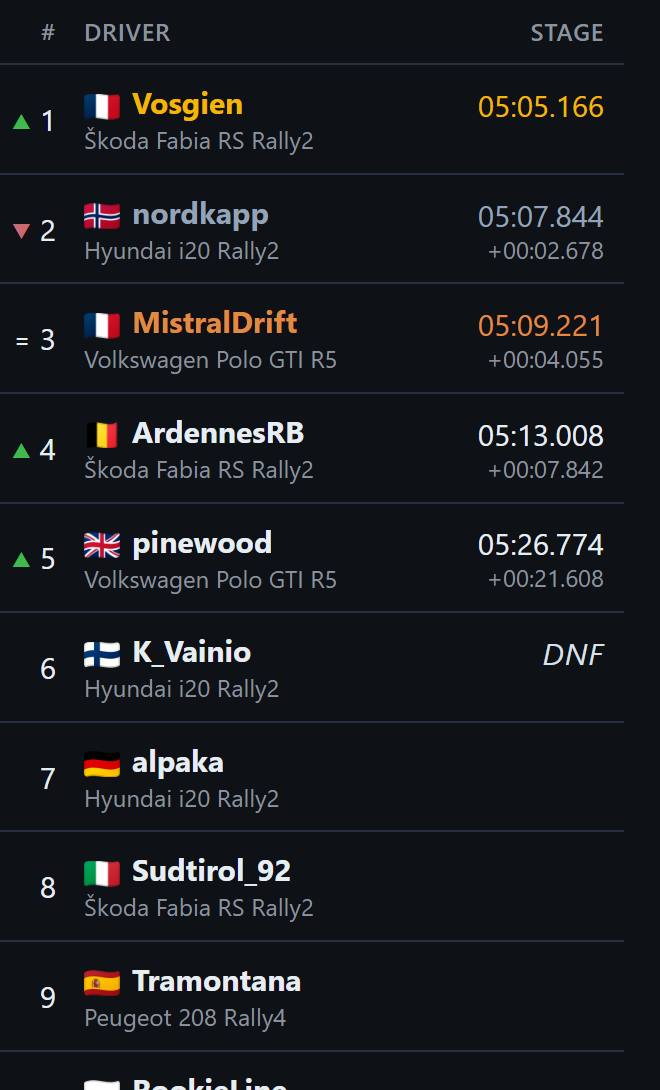
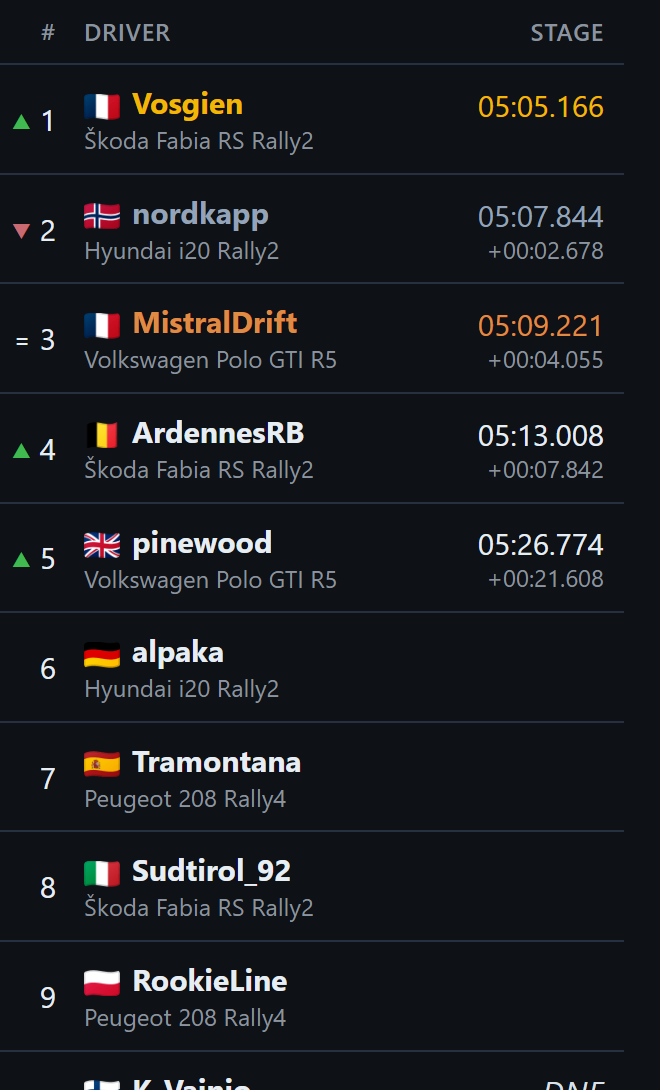
Rank the live sector board by each car's furthest split, name cars in any casing
While a stage was running, the board sorted on the latest split column only.
A car not yet at that split point fell back to the overall standings, so a
driver who had only passed Sector 1 was placed by their rally total instead of
their Sector 1 time: the overall leader at 31 s showed above a car at 28 s.

Each car now ranks at the furthest split point it has reached: cars at the
latest one first, by their time there, then the cars one split behind by their
time at that split, and so on. Cars with no time yet keep the overall order.
A retired car goes below every car still running; before, a retirement with a
time at the latest split stayed ranked among the running cars, at the top if
it was the fastest there.

The CarId is an FName registered on each player's client, so one car can
reach the host as "HyundaiI20NRally2" in one session and "Hyundaii20NRally2"
in another. The catalog matched it with its exact casing, and the second
spelling showed as the raw id instead of "Hyundai i20 Rally2". Car names are
now looked up without case, like nationality tokens. The raw CarId the board
publishes is unchanged.

The README's live view and classification overlay are reshot in the new order.
tools/test-classification.js, plain Node run by hand, lifts computeView out of
the page and checks its classification rules on a small board: finisher, DNF and
DNS statuses under DNF - No Rejoin, the tie-break on stages completed before the
[…]

diff --git a/tools/test-classification.js b/tools/test-classification.js
@@ -1,0 +1,92 @@
+// Lightweight regression checks for the browser-side classification rules.
+// Run with: node tools/test-classification.js
+const assert = require("assert");
+const fs = require("fs");
+const path = require("path");
+
+const page = fs.readFileSync(path.join(__dirname, "..", "src", "Web", "index.html"), "utf8");
+const start = page.indexOf("function computeView(");
+const end = page.indexOf("// the view actually rendered", start);
+assert(start >= 0 && end > start, "computeView source not found");
+const computeView = Function(page.slice(start, end) + "\nreturn computeView;")();
+
+const stages = [1, 2, 3, 4].map(n => ({ id: `run${n}`, name: `SS${n}` }));
+const finished = t => ({ t, f: true, s: 4 });
+const retired = progress => ({ t: progress, f: false, s: 2, r: true });
+const row = (driver, values) => ({
+  driver,
+  retired: false,
+  rawCells: values.map(value => value == null ? null
+    : value.kind === "dnf" ? retired(value.progress) : finished(value)),
+  cars: values.map(value => value == null ? null : "TestCar")
+});
+const dnf = progress => ({ kind: "dnf", progress });
+
+const view = {
+  allStages: stages,
+  hasRaceState: true,
+  rows: [
+    row("Fast finisher", [90, 100, 110, 120]),
+    row("Slow finisher", [100, 110, 120, 130]),
+    row("Alpha tied DNF", [80, 90, dnf(999), 70]),
+    row("Echo tied DNF", [80, 90, dnf(333), null]),
+    row("Later DNF", [85, 90, dnf(222), 60]),
+    row("One-stage DNF", [75, dnf(111), 50, 50]),
+    row("Missed-stage DNF", [80, null, 70, 60]),
+    row("Zero-stage DNF", [dnf(null), null, null, null]),
+    row("Never started", [null, null, null, null])
+  ]
+};
+const cfg = {
+  discarded: new Set(),
+  groups: new Map(),
+  pct: .5,
+  dnfNoRejoin: true,
+  hideSplits: true
+};
+
+const result = computeView(view, cfg, false);
+const byName = new Map(result.rows.map(value => [value.driver, value]));
+assert.deepStrictEqual(result.rows.map(value => value.driver), [
+  "Fast finisher", "Slow finisher", "Alpha tied DNF", "Echo tied DNF",
+  "Later DNF", "One-stage DNF", "Missed-stage DNF", "Zero-stage DNF", "Never started"
+]);
+assert.strictEqual(byName.get("Fast finisher").status, "finisher");
+assert.strictEqual(byName.get("Alpha tied DNF").status, "dnf");
+assert.strictEqual(byName.get("Alpha tied DNF").completedBeforeDnf, 2);
+assert.strictEqual(byName.get("Alpha tied DNF").timeBeforeDnf, 170);
+assert.strictEqual(byName.get("Alpha tied DNF").total, 170);
+assert.strictEqual(byName.get("Alpha tied DNF").cells[3].real, 70);
+assert.strictEqual(byName.get("Alpha tied DNF").cells[3].counted, false);
+assert.strictEqual(byName.get("Alpha tied DNF").rank, byName.get("Echo tied DNF").rank);
+assert.strictEqual(byName.get("Later DNF").rank, 5);
+assert.strictEqual(byName.get("Missed-stage DNF").cells[1].dnf, true);
+assert.strictEqual(byName.get("Missed-stage DNF").completedBeforeDnf, 1);
+assert.strictEqual(byName.get("Zero-stage DNF").status, "dnf");
+assert.strictEqual(byName.get("Never started").status, "dns");
+assert.strictEqual(byName.get("Alpha tied DNF").pointEligible, true);
+
+const withoutDnfStage = computeView(view, {
+  ...cfg, discarded: new Set(["run3"])
+}, false);
+const reclassified = withoutDnfStage.rows.find(value => value.driver === "Alpha tied DNF");
+assert.strictEqual(reclassified.status, "finisher");
+assert.strictEqual(reclassified.total, 240);
+
+const duringStage = computeView({ ...view, phase: "Racing", rows: [
+  row("Current runner", [90, 100, 110, null]),
+  row("Current finisher", [95, 105, 115, 120])
+] }, cfg, false);
+assert.strictEqual(duringStage.rows.find(value => value.driver === "Current runner").total, 300);
+
+const legacy = computeView(view, { ...cfg, dnfNoRejoin: false }, false);
+assert.strictEqual(legacy.rows.find(value => value.driver === "Alpha tied DNF").status, "classified");
+assert(legacy.rows.find(value => value.driver === "Alpha tied DNF").total > 170);
+
+const atResults = computeView({ ...view, phase: "Results", rows: [
+  row("Present finisher", [90, 100, 110, 120]),
+  row("Missed final stage", [95, 105, 115, null])
+] }, cfg, false);
+assert.strictEqual(atResults.rows.find(value => value.driver === "Missed final stage").status, "dnf");
+
+console.log("classification tests passed");

diff --git a/src/Web/index.html b/src/Web/index.html
@@ -1517,11 +1517,21 @@ function buildLiveSplitBoard(v) {
   const latestIndex = finishSectors > 0 ? columns.length - 1
     : sectorCount > 0 ? sectorCount - 1 : -1;
   if (latestIndex >= 0) columns[latestIndex].latest = true;
+  // Each car ranks at the furthest checkpoint it has reached, so a car still
+  // between two split points keeps its place from the previous one instead of
+  // falling back to the overall standings. Retired cars go below every car still
+  // running; cars with no time yet keep the overall order.
+  rows.forEach(row => {
+    row.liveReached = -1;
+    for (let i = latestIndex; i >= 0 && row.liveReached < 0; i--)
+      if (row.liveValues[i].time != null) row.liveReached = i;
+    row.liveOut = row.liveValues[columns.length - 1].dnf;
+  });
   rows.sort((a, b) => {
-    if (latestIndex < 0) return a.rank - b.rank;
-    const av = a.liveValues[latestIndex].time, bv = b.liveValues[latestIndex].time;
-    if (av == null || bv == null) return av == null ? (bv == null ? a.rank - b.rank : 1) : -1;
-    return (av - bv) || (a.rank - b.rank);
+    if (a.liveOut !== b.liveOut) return a.liveOut ? 1 : -1;
+    if (a.liveReached !== b.liveReached) return b.liveReached - a.liveReached;
+    if (a.liveReached < 0) return a.rank - b.rank;
+    return (a.liveValues[a.liveReached].time - b.liveValues[b.liveReached].time) || (a.rank - b.rank);
   });
   rows.forEach((row, index) => row.liveRank = index + 1);
 

diff --git a/src/Content/ContentCatalog.cs b/src/Content/ContentCatalog.cs
@@ -41,7 +41,9 @@ public static partial class ContentCatalog
     private sealed class Tables
     {
         public Dictionary<string, string> Stages = new(StringComparer.Ordinal);   // id or wireId -> name
-        public Dictionary<string, string> Cars = new(StringComparer.Ordinal);
+        // CarId -> display name, without case: like a nationality token, the CarId is an
+        // FName registered on each client ("HyundaiI20NRally2", "Hyundaii20NRally2")
+        public Dictionary<string, string> Cars = new(StringComparer.OrdinalIgnoreCase);
         public HashSet<string> Routes = new(StringComparer.Ordinal);              // every known id + wireId
         public Dictionary<string, string> Levels = new(StringComparer.Ordinal);   // wire level -> id level
         public Dictionary<string, string> RouteIds = new(StringComparer.Ordinal); // wireId -> id

diff --git a/README.fr.md b/README.fr.md
@@ -483,6 +483,7 @@ src/
   UI/        panneau de contrôle WPF + fenêtres overlay OBS transparentes + réglages
 tools/
   demo-page.js   session de démo pour les captures du README
+  test-classification.js  contrôles des règles de classement de la page (node, à la main)
 ```
 
 ## Soutenir le projet

diff --git a/README.md b/README.md
@@ -443,6 +443,7 @@ src/
   UI/        WPF control panel + transparent OBS overlay windows + settings
 tools/
   demo-page.js   demo session for the README screenshots
+  test-classification.js  checks of the page's classification rules (node, by hand)
 ```
 
 ## Support the project
